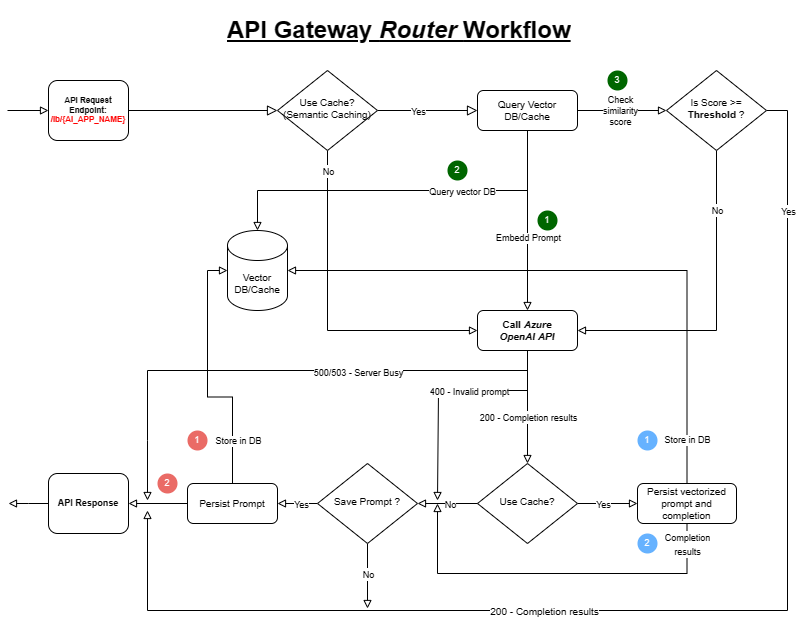
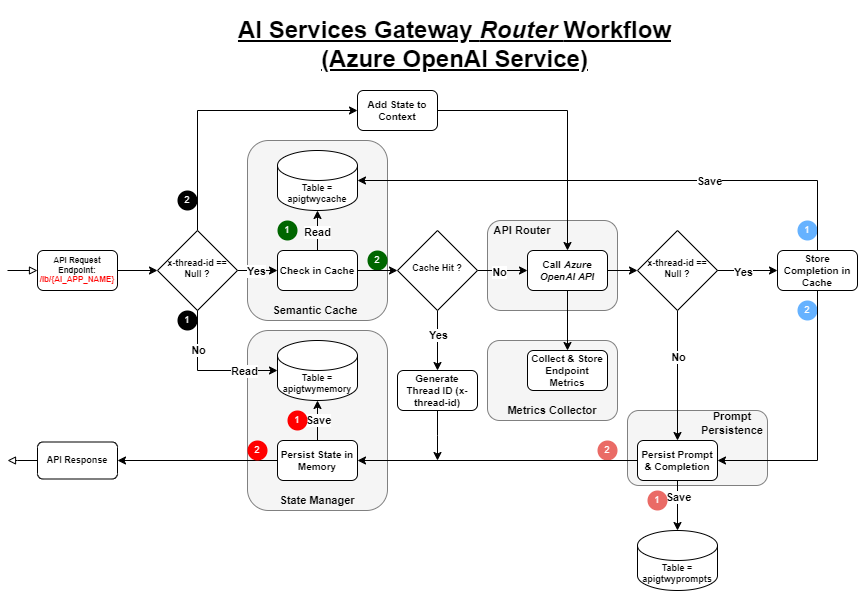
Updated Readme doc and aoai flow chart

diff --git a/README.md b/README.md
@@ -97,7 +97,7 @@ Readers are advised to refer to the following on-line resources as needed.
 - Currently, the Gateway does not secure the exposed API's by means of security tokens or API keys. Therefore, it's use should be limited to private virtual network deployments on Azure.  However, the gateway can be seamlessly integrated behind an application gateway or a firewall appliance (WAF) that offers advanced and robust security capabilities.
 
 ### Deployment Options
-Deploy the AI Services Gateway in a pre-production environment first and configure the desired features by setting the configuration parameters to appropriate values. The pre-production environment should be as close as possible to an actual production environment. Rigorously validate the features of routing, caching, state management, and persistence to confirm their optimal functionality as anticipated.
+Deploy the AI Services API Gateway in a pre-production environment first and configure the desired features by setting the configuration parameters to appropriate values. The pre-production environment should be as close as possible to an actual production environment. Rigorously validate the features of routing, caching, state management, and persistence to confirm their optimal functionality as anticipated.
 
 The Sections below describe the steps to configure and deploy the Gateway on Azure.  Although, there are multiple deployment options available on Azure, we will only describe the top two options recommended for production deployments.
 
@@ -107,10 +107,10 @@ The Sections below describe the steps to configure and deploy the Gateway on Azu
 
 **Recommended for Usage Scenario 3**
 
-1. Containerize the AI Services Gateway and deploy it on a serverless container platform such as *Azure Container Apps*.
+1. Containerize the AI Services API Gateway and deploy it on a serverless container platform such as *Azure Container Apps*.
 
    We will not be describing the steps for this option here.  Readers can follow the deployment instructions described in Azure Container Apps documentation [here](https://learn.microsoft.com/en-us/azure/container-apps/tutorial-code-to-cloud?source=recommendations&tabs=bash%2Ccsharp&pivots=acr-remote).
-2. Containerize the AI Services Gateway and deploy it on a container platform such as *Azure Kubernetes Service*. Refer to Sections **B** and **E** below.
+2. Containerize the AI Services API Gateway and deploy it on a container platform such as *Azure Kubernetes Service*. Refer to Sections **B** and **E** below.
 
 ### Critical Notes
 
